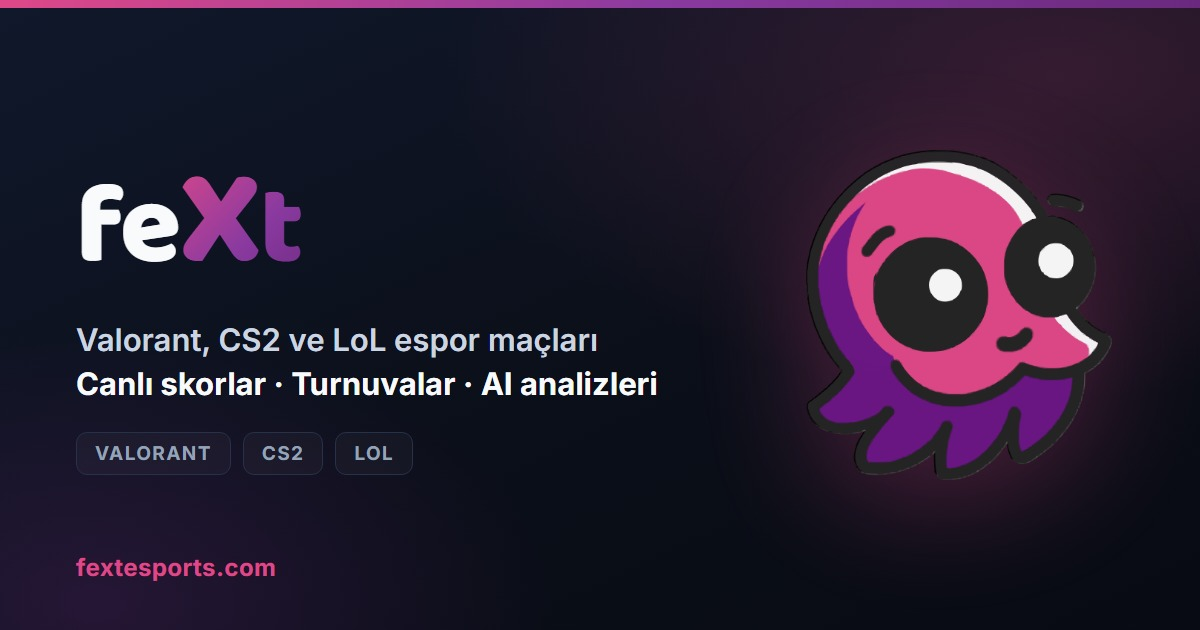
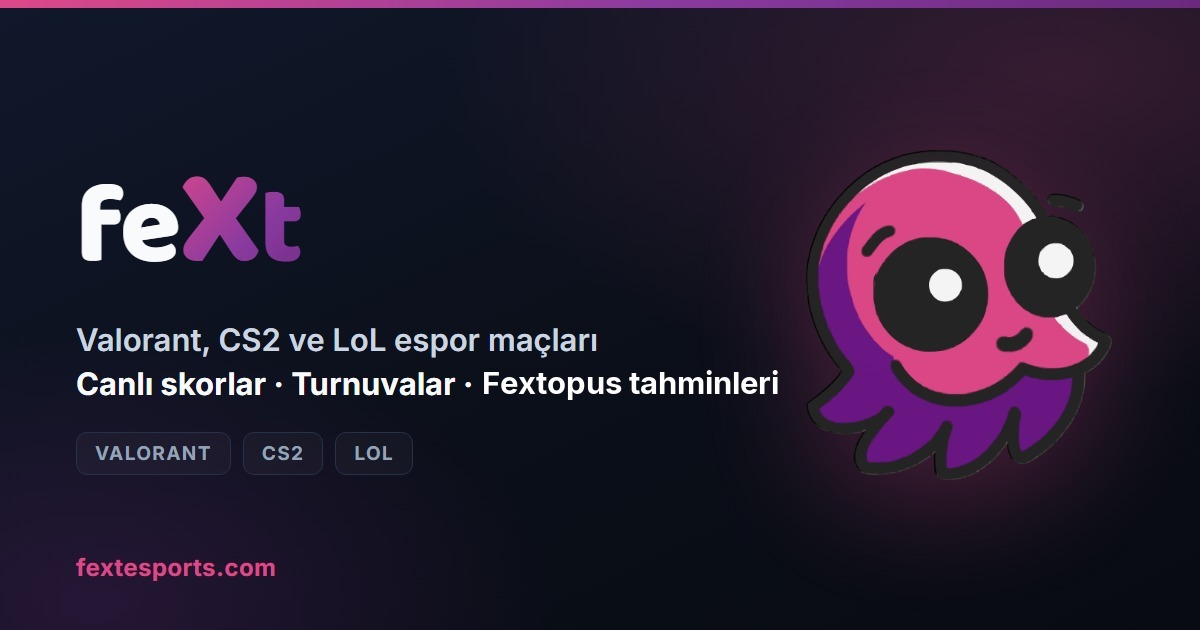
Denetim Faz 5: soft 404 kapatma, "AI" ifadeleri Fextopus'a, X kaldirildi, Tumu etiketi
- middleware: olmayan mac/takim/oyuncu/turnuva/haber botlara 404 + noindex
  (sbBul: bos = 404, Supabase hatasi = SPA'ya duser); bicimi tutmayan kimlik sorgusuz 404
- SPA: tanimsiz yollar icin noindex'li "Sayfa bulunamadi" sayfasi (catch-all rota)
- index.html, manifest, llms.txt, footer, mac detayi, paylasim karti ve og-default.jpg'de
  "AI" yerine Fextopus; kullanilmayan aiNewsSource silindi
- sameAs ve footer'dan X profili cikarildi
- oyun filtresinde "All" -> "Tumu"

Changed region(s): [[0.4008, 0.573, 0.6475, 0.6333]]

diff --git a/frontend/middleware.js b/frontend/middleware.js
@@ -155,6 +155,37 @@ async function sbFetch(path) {
   return rows[0] || null
 }
 
+// Sayfanın ANA varlığı için (maç/takım/oyuncu/turnuva/haber satırı). sbFetch hatayı
+// boş sonuçla karıştırır; burada hata fırlatılır → middleware SPA'ya düşer (200),
+// null ise varlık gerçekten yok → 404. Geçici Supabase arızası Google'a 404 göstermesin.
+async function sbBul(path) {
+  const base = process.env.VITE_SUPABASE_URL
+  const key = process.env.VITE_SUPABASE_ANON_KEY
+  if (!base || !key) throw new Error('supabase env yok')
+  const res = await fetch(`${base}/rest/v1/${path}`, {
+    headers: { apikey: key, Authorization: `Bearer ${key}` },
+  })
+  if (!res.ok) throw new Error(`supabase ${res.status}`)
+  const rows = await res.json()
+  return (Array.isArray(rows) ? rows[0] : rows) || null
+}
+
+// Soft 404 kapatma (Denetim Faz 5): olmayan maç/takım/oyuncu/turnuva/haber eskiden
+// bota 200 + SPA kabuğu dönüyordu → Google boş kabuğu "soft 404" ya da kopya sayar.
+// Artık gerçek 404 + noindex; gezinme linkleri kalır (tarama çıkmaz sokakta bitmesin).
+const YOK = Symbol('yok')
+const SAYI_RE = /^\d+$/
+const UUID_RE = /^[0-9a-f]{8}-[0-9a-f]{4}-[0-9a-f]{4}-[0-9a-f]{4}-[0-9a-f]{12}$/i
+
+function bulunamadiHtml(origin) {
+  return `<!DOCTYPE html><html lang="tr"><head>
+<meta charset="utf-8"/>
+<meta name="viewport" content="width=device-width, initial-scale=1"/>
+<title>Sayfa bulunamadı — feXt</title>
+<meta name="robots" content="noindex, follow"/>
+</head><body><h1>Sayfa bulunamadı</h1><p>Aradığınız sayfa yok ya da kaldırıldı.</p>${siteNavHtml(origin)}</body></html>`
+}
+
 // Dinamik OG kartı üretimi (@vercel/og) kart başına ~1.7sn SAF CPU harcıyor ve
 // her maçın kendine ait bir kart URL'i var (~15.6k maç). Sosyal medyada gerçekte
 // paylaşılan şeyler haberler ve yakın tarihli/yaklaşan maçlar; aylar önceki bir
@@ -232,7 +263,7 @@ function predHook(pa, pb, aName, bName) {
   const favProb = Math.max(fa, fb)
   if (favProb < 0.6) return ''
   const fav = fa >= fb ? aName : bName
-  return `AI: %${Math.round(favProb * 100)} ${fav}`
+  return `Fextopus: %${Math.round(favProb * 100)} ${fav}`
 }
 
 // Event yapısal verisi ortak alanları. location + startDate KRİTİK (Google zengin
@@ -313,8 +344,8 @@ async function buildForMatch(id, origin, url) {
     'team_a:teams!matches_team_a_id_fkey(name,logo_url,country_code),' +
     'team_b:teams!matches_team_b_id_fkey(name,logo_url,country_code),' +
     'tournament:tournaments(name,tier,league_name,event_name,display_name),game:games(slug,name)'
-  const row = await sbFetch(`matches?id=eq.${encodeURIComponent(id)}&select=${encodeURIComponent(sel)}&limit=1`)
-  if (!row) return null
+  const row = await sbBul(`matches?id=eq.${encodeURIComponent(id)}&select=${encodeURIComponent(sel)}&limit=1`)
+  if (!row) return YOK
   const a = row.team_a?.name || 'Takım A'
   const b = row.team_b?.name || 'Takım B'
   const gm = gameMeta(row.game?.slug)
@@ -358,7 +389,7 @@ async function buildForMatch(id, origin, url) {
       `${oyunAd} maç sonucu, Fextopus tahmini ve istatistikler — feXt.`
   } else {
     desc = `${a} – ${b} maçı${tarih ? `, ${tarih}` : ''}.` +
-      `${p ? ` Fextopus tahmini: ${p.replace('AI: ', '')}.` : ''} ` +
+      `${p ? ` Fextopus tahmini: ${p.replace('Fextopus: ', '')}.` : ''} ` +
       `${oyunAd} canlı skor, kadro ve maç analizi — feXt.`
   }
   const teams = [{ '@type': 'SportsTeam', name: a }, { '@type': 'SportsTeam', name: b }]
@@ -388,7 +419,7 @@ async function buildForMatch(id, origin, url) {
   const haberYol = haber ? newsPath(haber) : null
   if (haberYol) satirlar.push(`<li><a href="${origin}${haberYol}">${esc(haber.title || 'Maç haberi')}</a></li>`)
 
-  const tahminP = p ? `<p>Fextopus tahmin motoru bu maçta ${esc(p.replace('AI: ', ''))} veriyordu.</p>` : ''
+  const tahminP = p ? `<p>Fextopus tahmin motoru bu maçta ${esc(p.replace('Fextopus: ', ''))} veriyordu.</p>` : ''
   const kunye = `<p>${esc(oyunAd)}${turSahne ? ` · ${esc(turSahne)}` : ''}${row.tournament?.tier ? ` · ${esc(String(row.tournament.tier).toUpperCase())}-Tier` : ''}${tarih ? ` · ${esc(tarih)}` : ''}</p>`
   const body = `<h1>${esc(title)}</h1><p>${esc(desc)}</p>${kunye}${tahminP}` +
     (satirlar.length ? `<h2>İlgili Sayfalar</h2><ul>${satirlar.join('')}</ul>` : '') +
@@ -428,7 +459,7 @@ async function buildForNews(ref, origin, url) {
   } else {
     query = `news_articles?match_id=eq.${encodeURIComponent(ref.id)}&variant=neq.preview&select=${encodeURIComponent(sel)}&order=created_at.desc&limit=1`
   }
-  let row = await sbFetch(query)
+  let row = await sbBul(query)
   // Maç haberlerinde önce maç SONRASI yazı aranır (variant≠preview) — aynı maçın
   // hem önizlemesi hem özeti olabilir, doğru olan özettir. Ama maç henüz
   // oynanmadıysa elde YALNIZCA preview vardır; eskiden burada null dönülüp bot
@@ -441,11 +472,17 @@ async function buildForNews(ref, origin, url) {
   // istekli taradığı içerik. Bu, GSC'deki "kopya, kullanıcı tarafından seçilmiş
   // canonical yok" uyarısının ayakta kalan son kaynağıydı.
   if (!row && ref.type === 'match') {
-    row = await sbFetch(
+    row = await sbBul(
       `news_articles?match_id=eq.${ENC(ref.id)}&select=${ENC(sel)}&order=created_at.desc&limit=1`,
     )
   }
-  if (!row) return null
+  if (!row) {
+    // Haberi olmayan maçta SPA maç verisinden sayfa kuruyor (NewsDetailPage) →
+    // maç varsa kabuğa düş (eski davranış), maç da yoksa gerçekten 404.
+    if (ref.type !== 'match') return YOK
+    const mac = await sbBul(`matches?id=eq.${ENC(ref.id)}&select=id&limit=1`)
+    return mac ? null : YOK
+  }
   const gm = gameMeta(row.game_slug)
   // Maçlardaki OG_FRESH_DAYS kuralı haberlere de (22 Eyl). Haberde tarih sınırı
   // YOKTU: 1.300+ haberin her biri bot geldiğinde ~1,7 sn CPU'luk kart üretiyordu
@@ -509,8 +546,8 @@ const ENC = encodeURIComponent
 const MATCH_SEL = 'id,team_a_score,team_b_score,scheduled_at,team_a:teams!matches_team_a_id_fkey(name),team_b:teams!matches_team_b_id_fkey(name)'
 
 async function buildForTeam(id, origin, url) {
-  const team = await sbFetch(`teams?id=eq.${ENC(id)}&select=${ENC('name,logo_url,game:games(name,slug)')}&limit=1`)
-  if (!team) return null
+  const team = await sbBul(`teams?id=eq.${ENC(id)}&select=${ENC('name,logo_url,game:games(name,slug)')}&limit=1`)
+  if (!team) return YOK
   const name = team.name || 'Takım'
   const gm = gameMeta(team.game?.slug)
   const matches = await sbFetchAll(`matches?or=(team_a_id.eq.${ENC(id)},team_b_id.eq.${ENC(id)})&status=eq.finished&select=${ENC(MATCH_SEL)}&order=scheduled_at.desc&limit=10`)
@@ -557,8 +594,8 @@ async function buildForTeam(id, origin, url) {
 
 async function buildForPlayer(id, origin, url) {
   // NOT: players↔teams FK yok; players.team_pandascore_id === teams.id (ayrı sorgu).
-  const p = await sbFetch(`players?id=eq.${ENC(id)}&select=${ENC('nickname,role,nationality,image_url,team_pandascore_id')}&limit=1`)
-  if (!p) return null
+  const p = await sbBul(`players?id=eq.${ENC(id)}&select=${ENC('nickname,role,nationality,image_url,team_pandascore_id')}&limit=1`)
+  if (!p) return YOK
   const nick = p.nickname || 'Oyuncu'
   let team = null
   if (p.team_pandascore_id != null) {
@@ -667,11 +704,11 @@ async function buildForPlayer(id, origin, url) {
 }
 
 async function buildForTournament(id, origin, url) {
-  const t = await sbFetch(
+  const t = await sbBul(
     `tournaments?id=eq.${ENC(id)}` +
     `&select=${ENC('name,tier,begin_at,end_at,league_name,event_name,display_name')}&limit=1`,
   )
-  if (!t) return null
+  if (!t) return YOK
   const name = turnuvaAdi(t, true) || t.name || 'Turnuva'
   const matches = await sbFetchAll(`matches?tournament_id=eq.${ENC(id)}&select=${ENC(MATCH_SEL)}&order=scheduled_at.desc&limit=15`)
   const title = `${name} — Fikstür, Puan Durumu ve Sonuçlar`
@@ -989,18 +1026,32 @@ export default async function middleware(req) {
     if (STATIC_ROUTES[path]) {
       html = await buildForStatic(path, SITE_ORIGIN, canon)
     } else if (path.startsWith('/match/')) {
-      if (seg) html = await buildForMatch(seg, SITE_ORIGIN, canon)
+      // Biçimi tutmayan kimlik (ör. /match/abc) PostgREST'te 400 → sbBul fırlatır →
+      // 200 kabuk olurdu; sorgusuz 404.
+      if (seg) html = SAYI_RE.test(seg) ? await buildForMatch(seg, SITE_ORIGIN, canon) : YOK
     } else if (path.startsWith('/news/') && path !== '/news/archive') {
-      const ref = parseNewsRef(seg)
-      if (ref) html = await buildForNews(ref, SITE_ORIGIN, canon)
+      if (seg) {
+        const ref = parseNewsRef(seg)
+        html = ref ? await buildForNews(ref, SITE_ORIGIN, canon) : YOK
+      }
     } else if (path.startsWith('/team/')) {
-      if (seg) html = await buildForTeam(seg, SITE_ORIGIN, canon)
+      if (seg) html = SAYI_RE.test(seg) ? await buildForTeam(seg, SITE_ORIGIN, canon) : YOK
     } else if (path.startsWith('/player/')) {
-      if (seg) html = await buildForPlayer(seg, SITE_ORIGIN, canon)
+      if (seg) html = UUID_RE.test(seg) ? await buildForPlayer(seg, SITE_ORIGIN, canon) : YOK
     } else if (path.startsWith('/tournament/')) {
-      if (seg) html = await buildForTournament(seg, SITE_ORIGIN, canon)
+      if (seg) html = SAYI_RE.test(seg) ? await buildForTournament(seg, SITE_ORIGIN, canon) : YOK
     }
 
+    if (html === YOK) {
+      return new Response(bulunamadiHtml(SITE_ORIGIN), {
+        status: 404,
+        headers: {
+          'content-type': 'text/html; charset=utf-8',
+          // Kısa önbellek: yeni eklenen varlık (ör. sonradan senkronlanan maç) uzun süre 404 kalmasın.
+          'cache-control': 'public, max-age=300, s-maxage=3600',
+        },
+      })
+    }
     if (html) {
       return new Response(html, {
         headers: {

diff --git a/frontend/src/pages/MatchDetail.jsx b/frontend/src/pages/MatchDetail.jsx
@@ -805,7 +805,7 @@ function CommunityPredictionPool({ matchId, teamAName, teamBName, aiWin, isFinis
 
         <div>
           <div style={{ fontSize: 10, fontWeight: 800, color: '#c8b4ff', textTransform: 'uppercase', letterSpacing: '.7px', marginBottom: 4 }}>
-            AI Fav.
+            Fextopus
           </div>
           <div style={{ height: 8, borderRadius: 999, overflow: 'hidden', background: 'var(--bg)', border: '1px solid var(--surface-2)', display: 'flex' }}>
             <div style={{ width: `${aiTeamAPct}%`, background: 'linear-gradient(90deg,#4ade80,#22c55e)' }} />
@@ -821,7 +821,7 @@ function CommunityPredictionPool({ matchId, teamAName, teamBName, aiWin, isFinis
       <div style={{ marginTop: 9, display: 'flex', justifyContent: 'space-between', gap: 8, flexWrap: 'wrap', fontSize: 10 }}>
         <span style={{ color: '#9ba7b4' }}>Toplam oy: {totalVotes}</span>
         <span style={{ color: sameDirection ? '#86efac' : '#ffd39a' }}>
-          {sameDirection ? `Topluluk ve AI ayni tarafta (${aiFavorite})` : `Topluluk: ${communityFavorite} · AI: ${aiFavorite}`}
+          {sameDirection ? `Topluluk ve Fextopus aynı tarafta (${aiFavorite})` : `Topluluk: ${communityFavorite} · Fextopus: ${aiFavorite}`}
         </span>
       </div>
 
@@ -1463,7 +1463,7 @@ export default function MatchDetail() {
     <div style={{ color: 'var(--text-1)', minHeight: '100vh', background: 'var(--bg)' }}>
       <SeoHead
         title={`${aName} vs ${bName}${gName ? ` — ${gName}` : ''} Canlı Skor`}
-        description={`${aName} vs ${bName}${match.tournament?.name ? ` · ${match.tournament.name}` : ''} — canlı skor, AI tahmini, kadro ve maç istatistikleri. feXt.`}
+        description={`${aName} vs ${bName}${match.tournament?.name ? ` · ${match.tournament.name}` : ''} — canlı skor, Fextopus tahmini, kadro ve maç istatistikleri. feXt.`}
         image={aLogo || bLogo || ''}
         type="article"
         schema={match.scheduled_at ? {
@@ -1475,7 +1475,7 @@ export default function MatchDetail() {
           eventStatus: 'https://schema.org/EventScheduled',
           eventAttendanceMode: 'https://schema.org/OnlineEventAttendanceMode',
           location: { '@type': 'VirtualLocation', url: typeof window !== 'undefined' ? window.location.href : undefined },
-          description: `${aName} vs ${bName}${match.tournament?.name ? ` · ${match.tournament.name}` : ''} — canlı skor, AI tahmini ve maç istatistikleri.`,
+          description: `${aName} vs ${bName}${match.tournament?.name ? ` · ${match.tournament.name}` : ''} — canlı skor, Fextopus tahmini ve maç istatistikleri.`,
           image: aLogo || bLogo || undefined,
           organizer: { '@type': 'Organization', name: 'feXt' },
           competitor: [

diff --git a/frontend/index.html b/frontend/index.html
@@ -56,13 +56,13 @@
 
     <!-- Varsayılan SEO (sayfa-bazlı etiketler React SeoHead ile override edilir) -->
     <title>feXt — Espor Maçları, Skorlar ve Haberler</title>
-    <meta name="description" content="Valorant, CS2 ve LoL espor maçları, canlı skorlar, turnuva takibi, oyuncu istatistikleri ve AI destekli haber bülteni — feXt." />
+    <meta name="description" content="Valorant, CS2 ve LoL espor maçları, canlı skorlar, turnuva takibi, oyuncu istatistikleri, Fextopus tahmin motoru ve Türkçe haber bülteni — feXt." />
 
     <!-- Open Graph varsayılanı -->
     <meta property="og:site_name" content="feXt" />
     <meta property="og:type" content="website" />
     <meta property="og:title" content="feXt — Espor Maçları, Skorlar ve Haberler" />
-    <meta property="og:description" content="Valorant, CS2 ve LoL espor maçları, canlı skorlar, turnuva takibi ve AI haber bülteni." />
+    <meta property="og:description" content="Valorant, CS2 ve LoL espor maçları, canlı skorlar, turnuva takibi ve Fextopus tahmin motoru." />
     <meta property="og:url" content="https://fextesports.com/" />
     <!-- Statik marka kartı: ana sayfa ve genel link paylaşımlarının önizlemesi.
          Statik dosya → CDN'den servis, 0 CPU (dinamik /api/og yalnızca haber ve
@@ -71,7 +71,7 @@
     <meta property="og:image:width" content="1200" />
     <meta property="og:image:height" content="630" />
     <meta property="og:image:type" content="image/jpeg" />
-    <meta property="og:image:alt" content="feXt — Valorant, CS2 ve LoL espor maçları, canlı skorlar ve AI analizleri" />
+    <meta property="og:image:alt" content="feXt — Valorant, CS2 ve LoL espor maçları, canlı skorlar ve Fextopus tahminleri" />
     <meta name="twitter:card" content="summary_large_image" />
     <meta name="twitter:image" content="https://fextesports.com/og-default.jpg" />
 
@@ -88,7 +88,6 @@
           "logo": "https://fextesports.com/icons/icon-512.png",
           "sameAs": [
             "https://instagram.com/fextesports",
-            "https://x.com/fextesports",
             "https://www.tiktok.com/@fextesports"
           ]
         },

diff --git a/frontend/src/components/Footer.jsx b/frontend/src/components/Footer.jsx
@@ -61,13 +61,10 @@ export default function Footer() {
           <div style={{ display: 'grid', gap: 12, maxWidth: 300 }}>
             <Link to="/" style={{ textDecoration: 'none' }}>{WORDMARK}</Link>
             <p style={{ margin: 0, fontSize: 12.5, color: 'var(--text-4)', lineHeight: 1.6 }}>
-              Valorant, CS2 ve LoL espor maçları, canlı skorlar, transferler ve AI destekli haberler — tek yerde.
+              Valorant, CS2 ve LoL espor maçları, canlı skorlar, transferler, Fextopus tahminleri ve Türkçe haberler — tek yerde.
             </p>
             <div style={{ display: 'flex', gap: 8, marginTop: 2 }}>
               <Social href="https://instagram.com/fextesports" label="Instagram"><InstagramIcon /></Social>
-              <Social href="https://x.com/fextesports" label="X (Twitter)">
-                <svg width="15" height="15" viewBox="0 0 24 24" fill="currentColor" aria-hidden="true"><path d="M18.244 2.25h3.308l-7.227 8.26 8.502 11.24H16.17l-5.214-6.817L4.99 21.75H1.68l7.73-8.835L1.254 2.25H8.08l4.713 6.231zm-1.161 17.52h1.833L7.084 4.126H5.117z" /></svg>
-              </Social>
               <Social href="https://www.tiktok.com/@fextesports" label="TikTok">
                 <svg width="16" height="16" viewBox="0 0 24 24" fill="currentColor" aria-hidden="true"><path d="M12.525.02c1.31-.02 2.61-.01 3.91-.02.08 1.53.63 3.09 1.75 4.17 1.12 1.11 2.7 1.62 4.24 1.79v4.03c-1.44-.05-2.89-.35-4.2-.97-.57-.26-1.1-.59-1.62-.93-.01 2.92.01 5.84-.02 8.75-.08 1.4-.54 2.79-1.35 3.94-1.31 1.92-3.58 3.17-5.91 3.21-1.43.08-2.86-.31-4.08-1.03-2.02-1.19-3.44-3.37-3.65-5.71-.02-.5-.03-1-.01-1.49.18-1.9 1.12-3.72 2.58-4.96 1.66-1.44 3.98-2.13 6.15-1.72.02 1.48-.04 2.96-.04 4.44-.99-.32-2.15-.23-3.02.37-.63.41-1.11 1.04-1.36 1.75-.21.51-.15 1.07-.14 1.61.24 1.64 1.82 3.02 3.5 2.87 1.12-.01 2.19-.66 2.77-1.61.19-.33.4-.67.41-1.06.1-1.79.06-3.57.07-5.36.01-4.03-.01-8.05.02-12.07z" /></svg>
               </Social>

diff --git a/frontend/src/pages/NotFoundPage.jsx b/frontend/src/pages/NotFoundPage.jsx
@@ -1,0 +1,21 @@
+import { Link } from 'react-router-dom'
+import { FEXT } from '../theme'
+import Mascot from '../components/Mascot'
+
+// Tanımsız yol (ör. /bu-sayfa-yok). Bu yollar middleware matcher'ı dışında →
+// vercel.json rewrite'ı index.html'i 200 ile verir; statü kodu değiştirilemez,
+// o yüzden Google'a noindex ile "dizine alma" denir (soft 404 kapatma, Denetim Faz 5).
+export default function NotFoundPage() {
+  return (
+    <div style={{ textAlign: 'center', padding: '80px 16px', minHeight: 'calc(100vh - 58px)' }}>
+      <title>Sayfa bulunamadı | feXt</title>
+      <meta name="robots" content="noindex, follow" />
+      <div style={{ marginBottom: 16, display: 'flex', justifyContent: 'center' }}><Mascot size={86} dim /></div>
+      <h1 style={{ fontSize: 20, fontWeight: 700, color: 'var(--text-1)', marginBottom: 8 }}>Sayfa bulunamadı</h1>
+      <p style={{ fontSize: 14, color: 'var(--text-4)', marginBottom: 24 }}>Aradığınız sayfa yok ya da taşınmış olabilir.</p>
+      <Link to="/" style={{ display: 'inline-block', padding: '10px 24px', background: FEXT.accentGrad, borderRadius: 10, color: '#fff', fontWeight: 700, textDecoration: 'none' }}>
+        Ana sayfaya dön
+      </Link>
+    </div>
+  )
+}

diff --git a/frontend/src/App.jsx b/frontend/src/App.jsx
@@ -48,6 +48,7 @@ const TournamentsListPage = lazy(() => import('./pages/TournamentsListPage'))
 const ScoutEnginePage = lazy(() => import('./pages/ScoutEnginePage'))
 const LegalPage       = lazy(() => import('./pages/LegalPage'))
 const TurkTakimlariPage = lazy(() => import('./pages/TurkTakimlariPage'))
+const NotFoundPage = lazy(() => import('./pages/NotFoundPage'))
 
 import './App.css'
 
@@ -782,6 +783,7 @@ function AppShell() {
           <Route path="/gizlilik"                 element={<LegalPage doc="privacy" />} />
           <Route path="/kullanim-kosullari"       element={<LegalPage doc="terms" />} />
           <Route path="/kvkk"                     element={<LegalPage doc="kvkk" />} />
+          <Route path="*"                         element={<NotFoundPage />} />
         </Routes>
         </RouteTransition>
       </Suspense>

diff --git a/frontend/api/og.js b/frontend/api/og.js
@@ -7,7 +7,7 @@
  *
  * Kullanım (og:image):
  *   /api/og?a=Karmine%20Corp&b=Team%20Liquid&la=<logoUrl>&lb=<logoUrl>
- *           &s=2%20-%201&g=VALORANT&t=S&tn=VCT%20Masters&p=AI:%20%2572%20Karmine&c=C8102E&sig=<imza>
+ *           &s=2%20-%201&g=VALORANT&t=S&tn=VCT%20Masters&p=Fextopus:%20%2572%20Karmine&c=C8102E&sig=<imza>
  *   URL'yi yalnız middleware üretir; `sig` olmadan istek og-default.jpg'e döner.
  *
  * NOT: JSX yerine React.createElement — Vercel'in Vite (non-Next) zero-config

diff --git a/frontend/src/context/GameContext.jsx b/frontend/src/context/GameContext.jsx
@@ -4,8 +4,8 @@ import { GAME_COLORS } from '../theme';
 export const GAMES = [
   {
     id:         'all',
-    label:      'All Games',
-    shortLabel: 'All',
+    label:      'Tüm oyunlar',
+    shortLabel: 'Tümü',
     icon:       '🎮',
     color:      GAME_COLORS.all,
     soon:       false,

diff --git a/frontend/src/branding.config.js b/frontend/src/branding.config.js
@@ -1,7 +1,6 @@
 const BRANDING = {
   productName: 'feXt',
   shortName: 'feXt',
-  aiNewsSource: 'feXt AI',
   newsSource: 'feXt',
   followStateStorageKey: 'e_sports_hub_user_follow_state_v1',
   imageFallbacks: {

diff --git a/CLAUDE.md b/CLAUDE.md
@@ -96,6 +96,7 @@ Projede otomatik test yok. Değişiklik şöyle doğrulanır:
 - UI'da "Model" ya da "AI" deme → tahmin motorunun adı Fextopus.
 - `index.html`'deki satır içi betiği/`onload`'u değiştirip `vercel.json` CSP'sindeki sha256'yı güncellemeden bırakma → CSP zorunluyken betik çalışmaz (hash `dist/index.html`'den hesaplanır). `/api/og` URL'sini middleware dışında üretme → imzasız istek statik karta düşer (`lib/ogImza.js`).
 - `matches`'a `postgres_changes` aboneliği açma ya da tabloyu `supabase_realtime` yayınına ekleme → her satır yazımı (ETL'in değişmeyen yazımları dahil) tam satırıyla her açık sekmeye gider. Canlı veri `maclar` Broadcast'inden; yeni abone `subscribeToMatchesUpdates`'i kullanır. Yoklama için düz `setInterval` değil `useYenileme`.
+- Middleware'de sayfanın ana varlığını `sbFetch` ile çekme → hatayı "yok"la karıştırır; `sbBul` kullan, boşsa `YOK` dön (404 + noindex), hata SPA'ya düşer (geçici arıza 404 olmasın).
 - Middleware yanıtına `s-maxage` koyup CPU'yu koruduğunu sanma → middleware önbellekten önce her istekte koşar.
 - Türkçe yerelde İngilizce terimi büyük harfe çevirme → "WINNERS" "WİNNERS" olur.
 - Windows'ta Türkçe/Unicode içerikli heredoc ile dosya yazma → cp1254 karakterleri bozar.
